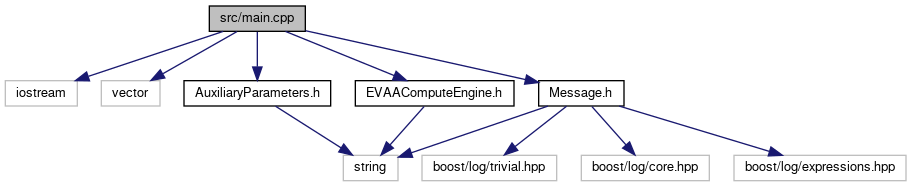
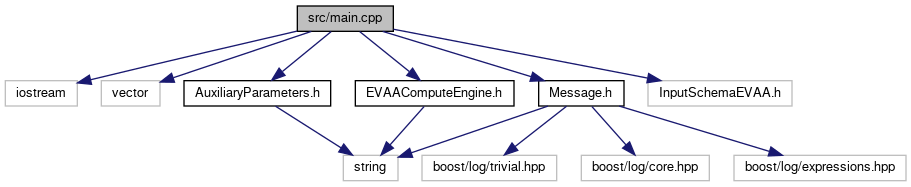
deploy: 08ef041f62af1080ce496ea780d188db3aa30bbd

diff --git a/_e_v_a_a_compute_engine_8h_source.html b/_e_v_a_a_compute_engine_8h_source.html
@@ -106,7 +106,7 @@ $(function() {
 <div class="ttc" id="a_c_make_lists_8txt_html_a8097a72ae91eb0f9afcfcd9383d66fac"><div class="ttname"><a href="_c_make_lists_8txt.html#a8097a72ae91eb0f9afcfcd9383d66fac">add_library</a></div><div class="ttdeci">add_library(EVAALibStatic STATIC ${EVAA_SOURCES}) target_include_directories(EVAALibStatic PUBLIC $</div><div class="ttdef"><b>Definition:</b> CMakeLists.txt:20</div></div>
 <div class="ttc" id="a_e_v_a_a_compute_engine_8h_html"><div class="ttname"><a href="_e_v_a_a_compute_engine_8h.html">EVAAComputeEngine.h</a></div></div>
 <div class="ttc" id="a_c_make_lists_8txt_html_a90a73f2a482fa97064ec367e671911c3"><div class="ttname"><a href="_c_make_lists_8txt.html#a90a73f2a482fa97064ec367e671911c3">file</a></div><div class="ttdeci">file(GLOB SOURCES *.cpp) add_subdirectory($</div><div class="ttdef"><b>Definition:</b> CMakeLists.txt:2</div></div>
-<div class="ttc" id="amain_8cpp_html_a3c04138a5bfe5d72780bb7e82a18e627"><div class="ttname"><a href="main_8cpp.html#a3c04138a5bfe5d72780bb7e82a18e627">main</a></div><div class="ttdeci">int main(int argc, char **argv)</div><div class="ttdef"><b>Definition:</b> main.cpp:61</div></div>
+<div class="ttc" id="amain_8cpp_html_a3c04138a5bfe5d72780bb7e82a18e627"><div class="ttname"><a href="main_8cpp.html#a3c04138a5bfe5d72780bb7e82a18e627">main</a></div><div class="ttdeci">int main(int argc, char **argv)</div><div class="ttdef"><b>Definition:</b> main.cpp:63</div></div>
 <div class="ttc" id="aclass_e_v_a_a_1_1_e_v_a_a_compute_engine_html"><div class="ttname"><a href="class_e_v_a_a_1_1_e_v_a_a_compute_engine.html">EVAA::EVAAComputeEngine</a></div><div class="ttdoc">Class ComputeEngine the core of EVAA.</div><div class="ttdef"><b>Definition:</b> EVAAComputeEngine.h:34</div></div>
 <div class="ttc" id="aclass_e_v_a_a_1_1_e_v_a_a_compute_engine_html_a489372739e2c1803bb9c18b1106aedbc"><div class="ttname"><a href="class_e_v_a_a_1_1_e_v_a_a_compute_engine.html#a489372739e2c1803bb9c18b1106aedbc">EVAA::EVAAComputeEngine::EVAAComputeEngine</a></div><div class="ttdeci">EVAAComputeEngine(std::string t_inputFileName)</div><div class="ttdoc">Reads parameters from XML files.</div><div class="ttdef"><b>Definition:</b> EVAAComputeEngine.cpp:26</div></div>
 <div class="ttc" id="a_c_make_lists_8txt_html_a4b2271c6f26b7b01405d5729ddf2e6a8"><div class="ttname"><a href="_c_make_lists_8txt.html#a4b2271c6f26b7b01405d5729ddf2e6a8">target_link_libraries</a></div><div class="ttdeci">target_link_libraries(EVAALibStatic CONAN_PKG::hdf5 CONAN_PKG::boost CONAN_PKG::xerces-c) target_link_libraries(EVAA EVAALibStatic) get_property(dirs DIRECTORY $</div><div class="ttdef"><b>Definition:</b> CMakeLists.txt:29</div></div>

diff --git a/_auxiliary_functions_8h_source.html b/_auxiliary_functions_8h_source.html
@@ -110,7 +110,7 @@ $(function() {
 <div class="ttc" id="a_e_v_a_a_compute_engine_8h_html"><div class="ttname"><a href="_e_v_a_a_compute_engine_8h.html">EVAAComputeEngine.h</a></div></div>
 <div class="ttc" id="a_message_8h_html_aced66975c154ea0e2a8ec3bc818b4e08"><div class="ttname"><a href="_message_8h.html#aced66975c154ea0e2a8ec3bc818b4e08">LOG_ERROR</a></div><div class="ttdeci">#define LOG_ERROR</div><div class="ttdef"><b>Definition:</b> Message.h:74</div></div>
 <div class="ttc" id="a_message_8h_html_a6ff63e8955665c4a58b1598f2b07c51a"><div class="ttname"><a href="_message_8h.html#a6ff63e8955665c4a58b1598f2b07c51a">LOG_DEBUG</a></div><div class="ttdeci">#define LOG_DEBUG</div><div class="ttdef"><b>Definition:</b> Message.h:62</div></div>
-<div class="ttc" id="amain_8cpp_html_a3c04138a5bfe5d72780bb7e82a18e627"><div class="ttname"><a href="main_8cpp.html#a3c04138a5bfe5d72780bb7e82a18e627">main</a></div><div class="ttdeci">int main(int argc, char **argv)</div><div class="ttdef"><b>Definition:</b> main.cpp:61</div></div>
+<div class="ttc" id="amain_8cpp_html_a3c04138a5bfe5d72780bb7e82a18e627"><div class="ttname"><a href="main_8cpp.html#a3c04138a5bfe5d72780bb7e82a18e627">main</a></div><div class="ttdeci">int main(int argc, char **argv)</div><div class="ttdef"><b>Definition:</b> main.cpp:63</div></div>
 <div class="ttc" id="aclass_e_v_a_a_1_1_auxiliary_parameters_html_a08664589ab24b5dba63d6f0d4622d2a3"><div class="ttname"><a href="class_e_v_a_a_1_1_auxiliary_parameters.html#a08664589ab24b5dba63d6f0d4622d2a3">EVAA::AuxiliaryParameters::gitSHA1</a></div><div class="ttdeci">static const std::string gitSHA1</div><div class="ttdoc">Git hash is determined during configure by cmake.</div><div class="ttdef"><b>Definition:</b> AuxiliaryParameters.h:43</div></div>
 <div class="ttc" id="aclass_e_v_a_a_1_1_message_html"><div class="ttname"><a href="class_e_v_a_a_1_1_message.html">EVAA::Message</a></div><div class="ttdoc">Class wrapper to boost logging.</div><div class="ttdef"><b>Definition:</b> Message.h:32</div></div>
 <div class="ttc" id="aclass_e_v_a_a_1_1_e_v_a_a_compute_engine_html"><div class="ttname"><a href="class_e_v_a_a_1_1_e_v_a_a_compute_engine.html">EVAA::EVAAComputeEngine</a></div><div class="ttdoc">Class ComputeEngine the core of EVAA.</div><div class="ttdef"><b>Definition:</b> EVAAComputeEngine.h:34</div></div>

diff --git a/main_8cpp.html b/main_8cpp.html
@@ -77,17 +77,19 @@ $(function() {
 <code>#include &quot;<a class="el" href="_auxiliary_parameters_8h_source.html">AuxiliaryParameters.h</a>&quot;</code><br />
 <code>#include &quot;<a class="el" href="_e_v_a_a_compute_engine_8h_source.html">EVAAComputeEngine.h</a>&quot;</code><br />
 <code>#include &quot;<a class="el" href="_message_8h_source.html">Message.h</a>&quot;</code><br />
+<code>#include &quot;InputSchemaEVAA.h&quot;</code><br />
 </div><div class="textblock"><div class="dynheader">
 Include dependency graph for main.cpp:</div>
 <div class="dyncontent">
 <div class="center"><img src="main_8cpp__incl.png" border="0" usemap="#asrc_2main_8cpp" alt=""/></div>
 <map name="src_2main_8cpp" id="asrc_2main_8cpp">
-<area shape="rect" title=" " alt="" coords="209,5,305,32"/>
+<area shape="rect" title=" " alt="" coords="297,5,393,32"/>
 <area shape="rect" title=" " alt="" coords="5,80,77,107"/>
 <area shape="rect" title=" " alt="" coords="101,80,160,107"/>
 <area shape="rect" href="_auxiliary_parameters_8h.html" title=" " alt="" coords="184,80,331,107"/>
 <area shape="rect" href="_e_v_a_a_compute_engine_8h.html" title=" " alt="" coords="355,80,514,107"/>
 <area shape="rect" href="_message_8h.html" title=" " alt="" coords="539,80,624,107"/>
+<area shape="rect" title=" " alt="" coords="648,80,792,107"/>
 <area shape="rect" title=" " alt="" coords="343,155,398,181"/>
 <area shape="rect" title=" " alt="" coords="422,155,557,181"/>
 <area shape="rect" title=" " alt="" coords="581,155,709,181"/>
